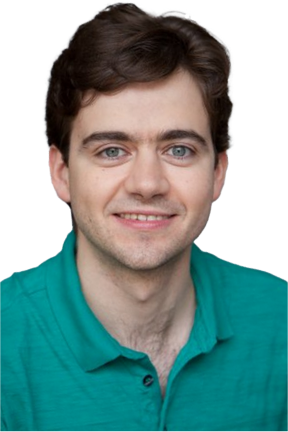
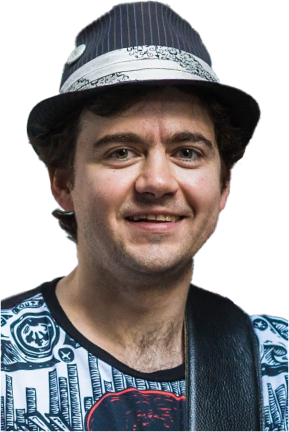
new speakers + footer

diff --git a/src/components/general/Footer.vue b/src/components/general/Footer.vue
@@ -56,8 +56,8 @@ export default {
 
 <style scoped>
 .footer-position {
-	--footer-height: 12rem;
-	height: calc(var(--footer-height) + 1rem);
+	--footer-height: 15rem;
+	height: calc(var(--footer-height) + 5rem);
 }
 
 .footer-background {
@@ -67,7 +67,7 @@ export default {
 
 	display: flex;
 	align-items: center;
-	/* padding: 1% 0; */
+	padding-top: 6rem;
 	background: linear-gradient(
 		180deg,
 		#ffffff -0.11%,
@@ -82,16 +82,19 @@ export default {
 	width: 50%;
 	min-width: max-content;
 }
-.icons {
-	margin-left: 0.7rem;
+.cutc-icons {
+	margin-bottom: 0.5rem;
+}
+.icons:not(:first-child) {
+	margin-left: 0.75rem;
 }
 .title {
 	font-size: 1.3rem;
-	margin-bottom: 0;
+	margin-bottom: 0.25rem;
 	font-weight: bold;
 }
 .contact {
-	margin: 0.1rem 0rem 0.5rem 0rem;
+	margin: 0.5rem 0;
 	font-weight: bold;
 }
 </style>

diff --git a/src/components/general/Speakers.vue b/src/components/general/Speakers.vue
@@ -44,8 +44,7 @@
 		</div>
 
 		<h3 v-if="!limit" class="coming-soon">
-			and {{ 50 - Object.entries(speakers).length }}+ more speakers coming
-			soon!
+			More speakers coming soon!
 		</h3>
 		<div v-else class="view-more">
 			<router-link to="/speakers">View all speakers</router-link>

diff --git a/src/views/SpeakersPage.vue b/src/views/SpeakersPage.vue
@@ -2,7 +2,7 @@
 <div>
 	<nav-bar/>
 	<div class="speaker-wrapper">
-		<speakers/>
+		<speakers />
 	</div>
 	<bottom/>
 </div>
